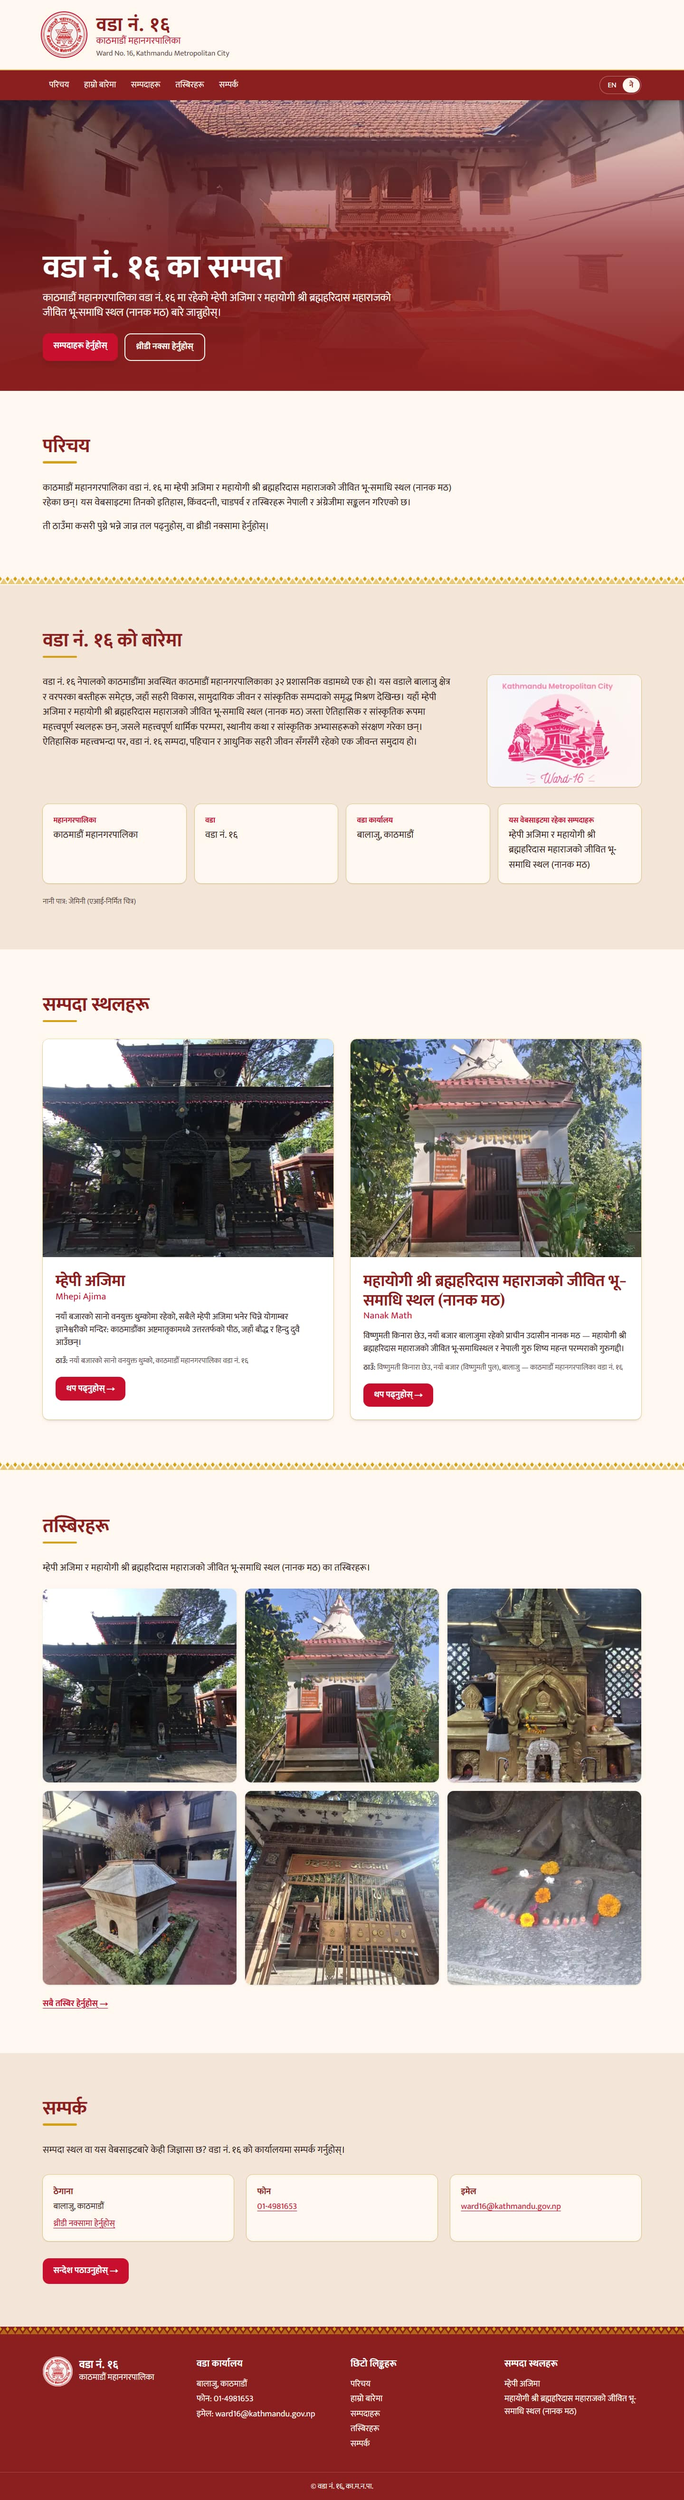
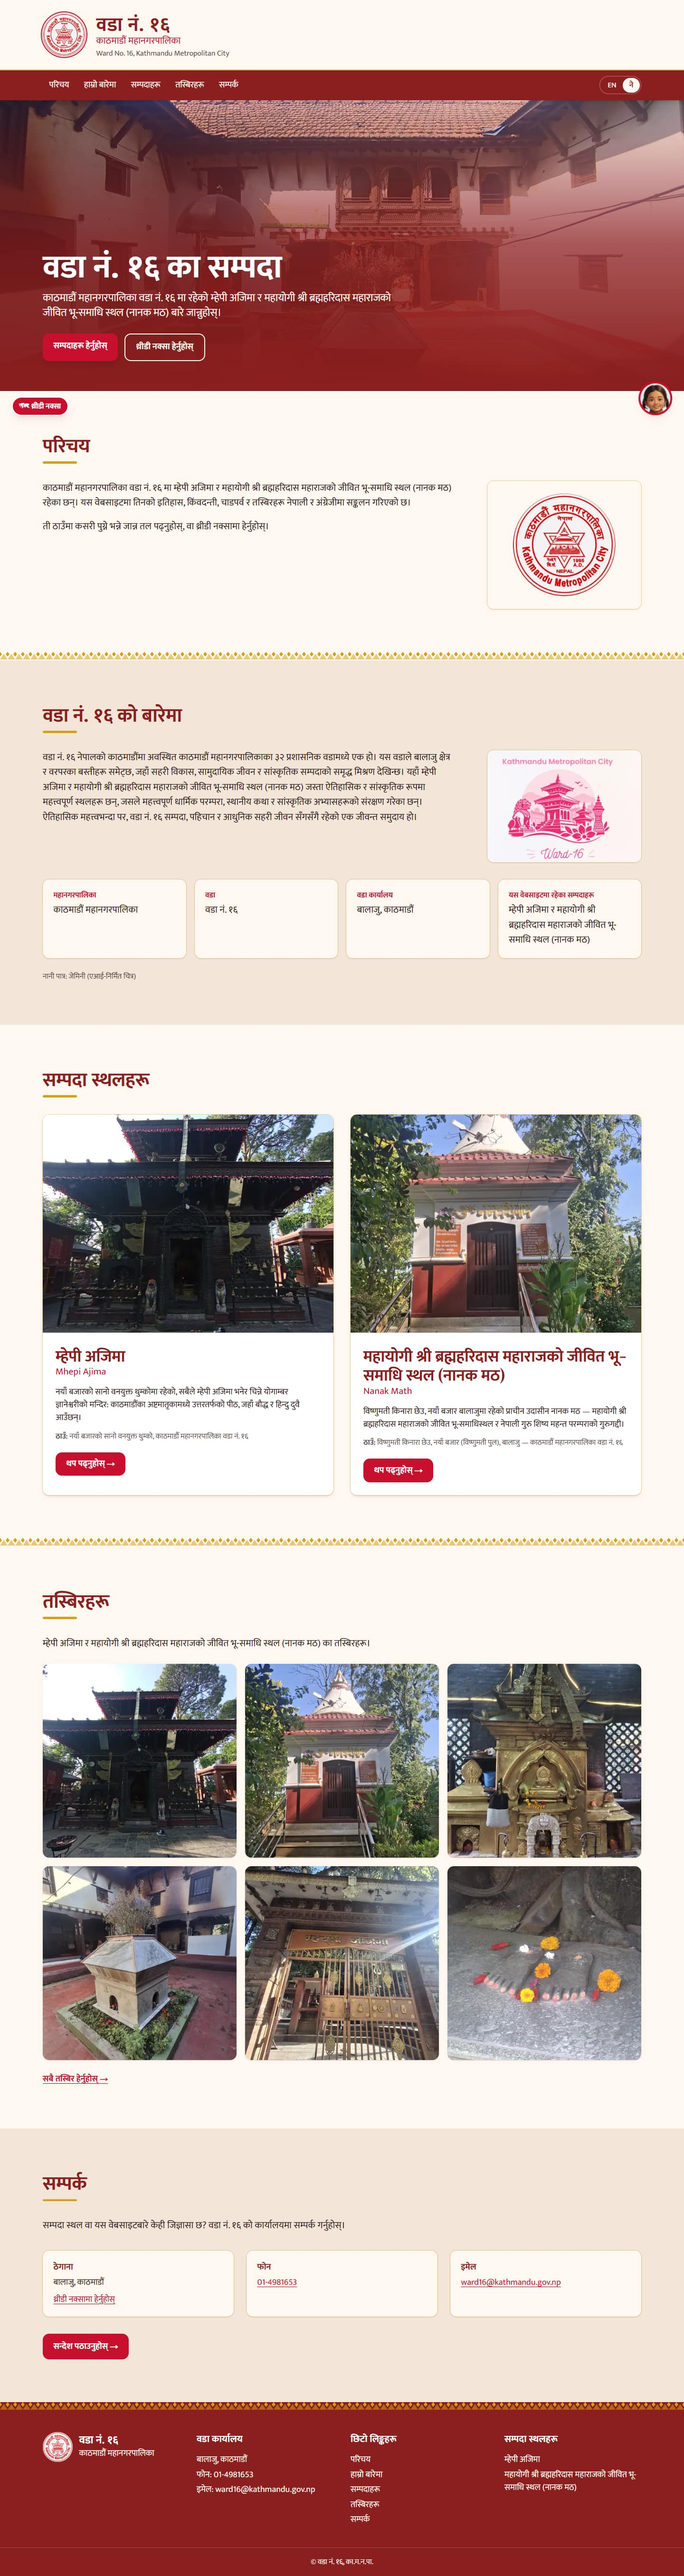
Header home link, Overview emblem, item 11 description, smaller 3D Map button
- Header: the whole brand (logo + "WARD NO. 16 / Kathmandu Metropolitan
  City" + the other-language line) is one link to /en/ or /ne/, named
  "Ward No. 16, home" / "वडा नं. १६, गृहपृष्ठ", with a visible focus
  outline. On the home page it scrolls to the top: smoothly, or
  instantly with reduced motion.
- Home Overview: the KMC emblem (raw-data wardlogo.png, now also built
  at 296 px; ward.json → overviewLogo, EN/NE alt) beside the text from
  768 px, in the same column as the About illustration; above the text
  on phones.
- Nanak heritage list: item 11's description turned on (confirmed).
- 3D Map button:
  - phones: a 40 px circle (icon ~20 px) in a 44 × 44 px tap area,
    as far from the edges as Nani's face;
  - from 768 px: a slim pill (icon ~16 px).
  No overlap at 320–1440.

Checked: typecheck, lint, strict `npm run build` + verify-output.
Browser checks 61/61 + 58/58 new, alignment audit 0 issues.
Screenshots updated.

diff --git a/src/components/Header.tsx b/src/components/Header.tsx
@@ -1,6 +1,6 @@
 import Image from "next/image";
-import Link from "next/link";
 
+import BrandLink from "@/components/BrandLink";
 import Nav from "@/components/Nav";
 import type { Dictionary, NavItem } from "@/lib/i18n";
 import type { Locale } from "@/types/heritage";
@@ -15,40 +15,37 @@ interface HeaderProps {
 
 /**
  * Top of every page, following the sketch: logo circle on the left, "WARD NO. 16 /
- * Kathmandu Metropolitan City" beside it, and the nav row underneath. The title
- * band scrolls away; only the nav bar sticks to the top.
+ * Kathmandu Metropolitan City" beside it, and the nav row underneath. The whole brand
+ * is one link home (BrandLink). The title band scrolls away; only the nav bar sticks.
  */
 export default function Header({ lang, dict, ward, navItems }: HeaderProps) {
   return (
     <>
       <header className="border-b-2 border-gold/60 bg-cream">
-        <div className="mx-auto flex max-w-6xl items-center gap-3 px-4 py-3 md:gap-5 md:py-5">
-          {/* prefetch off: prefetching the home page would preload its hero photo on every page */}
-          <Link
-            href={`/${lang}/`}
-            prefetch={false}
-            aria-label={dict.a11y.homeLink}
-            className="shrink-0 rounded-full ring-2 ring-crimson ring-offset-2 ring-offset-cream"
-          >
+        <div className="mx-auto flex max-w-6xl items-center px-4 py-3 md:py-5">
+          <BrandLink href={`/${lang}/`} label={dict.a11y.homeLink}>
+            {/* alt="": the link's name ("Ward No. 16, home") already says what it is. */}
             <Image
               src={ward.logo.src}
-              alt={ward.logo.alt[lang]}
+              alt=""
               width={128}
               height={128}
               priority
-              className="size-14 rounded-full md:size-20"
+              className="size-14 shrink-0 rounded-full ring-2 ring-crimson ring-offset-2 ring-offset-cream md:size-20"
             />
-          </Link>
 
-          <div className="min-w-0">
-            <p className="font-heading text-2xl leading-tight font-bold tracking-wide text-brick md:text-4xl">
-              {dict.site.headerTitle}
-            </p>
-            <p className="text-base leading-snug font-medium text-crimson md:text-lg">{dict.site.headerSubtitle}</p>
-            <p lang={dict.site.otherLanguage} className="hidden text-sm text-ink/80 sm:block">
-              {dict.site.otherLanguageLine}
-            </p>
-          </div>
+            <span className="block min-w-0">
+              <span className="block font-heading text-2xl leading-tight font-bold tracking-wide text-brick md:text-4xl">
+                {dict.site.headerTitle}
+              </span>
+              <span className="block text-base leading-snug font-medium text-crimson md:text-lg">
+                {dict.site.headerSubtitle}
+              </span>
+              <span lang={dict.site.otherLanguage} className="hidden text-sm text-ink/80 sm:block">
+                {dict.site.otherLanguageLine}
+              </span>
+            </span>
+          </BrandLink>
         </div>
       </header>
 

diff --git a/src/app/[lang]/page.tsx b/src/app/[lang]/page.tsx
@@ -54,6 +54,7 @@ export default async function HomePage({ params }: PageProps<"/[lang]">) {
   const preview = galleryPreview(home.galleryPreview, heritages);
   const credits = getCredits();
   const illustration = ward.illustration ? imageSet(ward.illustration.files) : null;
+  const overviewLogo = ward.overviewLogo ? imageSet(ward.overviewLogo.files) : null;
   // "Nani character by …"; null in production builds until the creator is set in content/credits.json.
   const naniCredit = naniCreditText(credits, dict, lang);
 
@@ -68,9 +69,29 @@ export default async function HomePage({ params }: PageProps<"/[lang]">) {
       />
 
       <HomeSection id="overview" title={dict.home.overviewTitle}>
-        <div className="max-w-3xl space-y-4 text-lg">
-          <p>{fill(byCount(dict.home.overviewIntro, count))}</p>
-          <p>{byCount(dict.home.overviewNext, count)}</p>
+        {/* Same grid as the About section below: text column + 15rem/18rem image column from 768 px.
+            The emblem sits beside the text there, and above it on phones. */}
+        <div className="grid gap-8 md:grid-cols-[minmax(0,1fr)_15rem] md:items-start lg:grid-cols-[minmax(0,48rem)_18rem] lg:justify-between">
+          <div className="space-y-4 text-lg">
+            <p>{fill(byCount(dict.home.overviewIntro, count))}</p>
+            <p>{byCount(dict.home.overviewNext, count)}</p>
+          </div>
+          {overviewLogo && (
+            <div className="order-first mx-auto w-full max-w-72 rounded-xl bg-cream p-6 shadow-sm ring-1 ring-gold/40 md:order-none md:mx-0">
+              {/* eslint-disable-next-line @next/next/no-img-element -- static export: no image server */}
+              <img
+                src={overviewLogo.src}
+                srcSet={overviewLogo.srcSet}
+                sizes="12rem"
+                width={overviewLogo.width}
+                height={overviewLogo.height}
+                alt={ward.overviewLogo?.alt[lang] ?? ""}
+                loading="lazy"
+                decoding="async"
+                className="mx-auto w-48 max-w-full rounded-full"
+              />
+            </div>
+          )}
         </div>
       </HomeSection>
 

diff --git a/src/components/MapButton.tsx b/src/components/MapButton.tsx
@@ -12,8 +12,11 @@ interface MapButtonProps {
 
 /**
  * Floating "🗺 3D Map" button, bottom-left on every page (swapped with Nani, who is bottom-right; hidden on the
- * map page itself). Kept small so it covers little text: a 48 px round icon on phones (the label stays as its
- * accessible name), a compact pill with the label from 768 px.
+ * map page itself). Kept small so it covers little text:
+ * - phones: a 40 px red circle (icon ~20 px) inside a 44 × 44 px tap area. The link is pulled 2 px towards
+ *   the corner so the circle sits as far from the edges as Nani's face on the right. The label stays as its
+ *   accessible name.
+ * - from 768 px: a slim "3D Map" pill (icon ~16 px).
  */
 export default function MapButton({ lang, label }: MapButtonProps) {
   const pathname = usePathname();
@@ -22,11 +25,15 @@ export default function MapButton({ lang, label }: MapButtonProps) {
   return (
     <Link
       href={`/${lang}/map/`}
-      className="fixed bottom-4 left-[max(1rem,env(safe-area-inset-left))] z-30 flex size-12 items-center justify-center rounded-full bg-crimson text-xl font-bold text-white shadow-lg ring-2 ring-white hover:bg-brick md:bottom-6 md:left-[max(1.5rem,env(safe-area-inset-left))] md:size-auto md:gap-1.5 md:px-3.5 md:py-2 md:text-sm"
+      className="group fixed bottom-[calc(1rem-2px)] left-[calc(max(1rem,env(safe-area-inset-left))-2px)] z-30 flex size-[44px] items-center justify-center rounded-full md:bottom-6 md:left-[max(1.5rem,env(safe-area-inset-left))] md:size-auto"
       style={{ marginBottom: "env(safe-area-inset-bottom)" }}
     >
-      <span aria-hidden="true">🗺</span>
-      <span className="sr-only md:not-sr-only">{label}</span>
+      <span className="flex size-[40px] items-center justify-center gap-1 rounded-full bg-crimson font-bold text-white shadow-lg ring-2 ring-white group-hover:bg-brick md:size-auto md:px-3 md:py-1.5 md:text-sm">
+        <span aria-hidden="true" className="text-[20px] leading-none md:text-[16px]">
+          🗺
+        </span>
+        <span className="sr-only md:not-sr-only">{label}</span>
+      </span>
     </Link>
   );
 }

diff --git a/src/components/BrandLink.tsx b/src/components/BrandLink.tsx
@@ -1,0 +1,41 @@
+"use client";
+
+import Link from "next/link";
+import { usePathname } from "next/navigation";
+import type { MouseEvent, ReactNode } from "react";
+
+interface BrandLinkProps {
+  href: string;
+  /** Accessible name, e.g. "Ward No. 16, home". */
+  label: string;
+  children: ReactNode;
+}
+
+/**
+ * The header brand (logo + "WARD NO. 16 / Kathmandu Metropolitan City" + the other-language line) as one
+ * link to the home page in the current language. On the home page itself it scrolls to the top instead:
+ * smoothly, or instantly for visitors who prefer reduced motion.
+ */
+export default function BrandLink({ href, label, children }: BrandLinkProps) {
+  const pathname = usePathname();
+
+  function onClick(event: MouseEvent<HTMLAnchorElement>) {
+    if (pathname !== href) return; // another page: a normal link home
+    event.preventDefault();
+    const reduce = window.matchMedia("(prefers-reduced-motion: reduce)").matches;
+    window.scrollTo({ top: 0, behavior: reduce ? "auto" : "smooth" });
+  }
+
+  return (
+    // prefetch off: prefetching the home page would preload its hero photo on every page
+    <Link
+      href={href}
+      prefetch={false}
+      aria-label={label}
+      onClick={onClick}
+      className="flex min-w-0 items-center gap-3 rounded-lg focus-visible:outline-offset-4 md:gap-5"
+    >
+      {children}
+    </Link>
+  );
+}

diff --git a/src/types/ward.ts b/src/types/ward.ts
@@ -20,6 +20,13 @@ export const wardSchema = z.object({
     src: z.string().startsWith("/images/"),
     alt: localized,
   }),
+  /** Emblem beside the Overview text on the home page (raw-data wardlogo.png), smallest file first. */
+  overviewLogo: z
+    .object({
+      files: z.array(z.string().startsWith("/images/")).min(1),
+      alt: localized,
+    })
+    .optional(),
   /** Ward illustration beside the About text on the home page (raw-data wardlogo1.png), smallest file first. */
   illustration: z
     .object({

diff --git a/MISSING_INFO.md b/MISSING_INFO.md
@@ -69,7 +69,7 @@ Most of the missing Mhepi Ajima content, and all ward information, is probably i
 - [ ] **"उदासीन" / "Udasin"**: dropped from the tradition field but still in the summary, the signboard name and How to Visit. Confirm which is right.
 - [ ] **Typos in the Nepali to check (not changed):** "बुद्धिदास महाराजको तिथ" (तिथि); "वि.सं. २०८० असाेज" typed as ा+े (असोज); "वासन्तीक नवरात्र" (वासन्तिक); "विष्णु पञ्चायन" in 4 places (पञ्चायतन elsewhere); "संवर्धन  एवं" double space; "नेपाली चोकन मन्दिर" (चोक?).
 - [ ] **Photos beside "यहाँ भएका सम्पदाहरू" / "The Heritage Here"** (`content/section-photos.json`): matched by Claude using the guru's new photo descriptions. Confirm, especially item 11 (ancient Nepali chok temple and mahant gaddi → `main-courtyard`, the courtyard of the two-storey buildings) and item 2 (`gilded-shrine`, described as the Vishnu Panchayatan temple). No photo yet for items 1, 10 and 12–16.
-  - [ ] **Item 11 has no description under its title**: its photo's gallery description ("Courtyard of the math enclosed by traditional two-storey buildings with tiled roofs" / "…मठको चोक") does not clearly describe "the ancient Nepali chok temple and the mahant gaddi". Items 2–9 show their photo's description. Set `"description": true` for item 11 in `content/section-photos.json` once confirmed, or give a better-matching photo.
+  - [x] **Item 11 description**: turned on (17 Nov 2026) on confirmation that the courtyard photo matches "the ancient Nepali chok temple and the mahant gaddi". All nine items now show their photo's description.
 - [ ] **Alternative name "Siddheshwar Mahadev" — needs a source.** Given by the ward team (13 Nov 2026) but not confirmed. It was removed from the chatbot topic label in the Phase 9 review and is **not shown anywhere** on the site.
   - A search of raw-data found **no occurrence** of Siddheshwar / सिद्धेश्वर (or its spelling variants) in the docx, the transcribed signboards and inscriptions, or any file name. The three web sources don't mention it either.
   - [ ] Give a source for the name (a document, signboard or interview) before it is used anywhere on the site.
@@ -124,7 +124,7 @@ Most of the missing Mhepi Ajima content, and all ward information, is probably i
 These files contain Nepali written by Claude, not taken from a source. A native speaker should review them.
 
 - `content/heritage/mhepi-ajima.ne.md`: rewritten on 13 Nov 2026 by Claude from the priest's Nepali transcript (condensed, mostly his own words). Everything apart from the quoted inscriptions and the bhajan needs review. The new Mhepi chatbot answers in `content/faq.json` (`mhepi-*`, including the new `mhepi-name` and `mhepi-machhindranath`) too.
-- `content/ward.json` → `illustration.alt.ne`: alt text of the ward illustration (`wardlogo1.png`, added 17 Nov 2026), written by Claude.
+- `content/ward.json` → `illustration.alt.ne` (ward illustration, `wardlogo1.png`) and `overviewLogo.alt.ne` (the KMC emblem beside Overview): alt text written by Claude, 17 Nov 2026.
 - `content/heritage/nanak-math.ne.md`: mostly the docx's own sentences, shortened. The summary, How to Visit, list intros and table labels are by Claude.
   - **Revised on 17 Nov 2026** by Luniva Malakar from the guru's feedback (native speaker). The English page (`nanak-math.en.md`) and the English chatbot answers now mirror her Nepali; Claude's English translation of the new text needs a review.
 - The `alt` text in all `gallery` entries of the `.ne.md` files

diff --git a/docs/screenshots/heritage-photos/README.md b/docs/screenshots/heritage-photos/README.md
@@ -4,24 +4,25 @@ Captured on 17 Nov 2026 in Microsoft Edge from the strict `npm run build`, branc
 
 | File | What it shows |
 |---|---|
-| `home-en-375-full.jpg`, `home-en-768-full.jpg`, `home-en-1440-full.jpg` (and `home-ne-…`) | The whole home page. The ward illustration (raw-data `wardlogo1.png`) sits beside the About Ward No. 16 text from 768 px and under it on phones. Each image is stitched from screen-height captures, with the sticky header and floating buttons hidden so they don't repeat. |
+| `home-en-375-full.jpg`, `home-en-768-full.jpg`, `home-en-1440-full.jpg` (and `home-ne-…`) | The whole home page. From 768 px, the KMC emblem (`wardlogo.png`) sits beside the Overview text and the ward illustration (`wardlogo1.png`) beside the About Ward No. 16 text, in the same column; on phones the emblem is above its text and the illustration below. The small 3D Map button (bottom-left) and Nani (bottom-right) show in the first screen. Each image is stitched from screen-height captures, with the sticky header and the floating buttons shown once only. |
 | `heritage-here-en-375.jpg`, `heritage-here-ne-375.jpg` | Nanak Math, "The Heritage Here" on phones: the item's text first, the photo underneath |
 | `heritage-here-en-768.jpg`, `heritage-here-ne-768.jpg`, `heritage-here-en-1440.jpg`, `heritage-here-ne-1440.jpg` | From 768 px: text on the left, photo on the right |
 | `heritage-here-en-1440-list.jpg`, `heritage-here-ne-1440-list.jpg` | The whole list |
 
 **The heritage list** (`content/section-photos.json`):
-- Nine items have a photo. Items 2–9 show the photo's gallery description under the title, word for word in the page language.
-- Item 11 shows its title only, because its photo's description doesn't clearly match the item (see MISSING_INFO.md).
+- Nine items have a photo, and all nine show the photo's gallery description under the title, word for word in the page language. Item 11's was turned on after confirmation.
 - The Tulsi Math keeps its four sub-shrines under its description.
 - Photos are equal in width and level with the titles. Every item's number lines up with the numbers of items without a photo.
 
-**Browser checks:** 67/67 pass, with no page errors, at 375, 768 and 1440 px in EN and NE. They cover:
+**Browser checks:** 61/61 heritage-list and home checks plus 58 header, emblem and button checks pass, with no page errors, at 375, 768 and 1440 px (button spacing also at 320 and 1024) in EN and NE. They cover:
 - the section heading and the nine photos;
 - the layout: text and photo positions, lazy loading, alt text, rounded corners and the gallery link;
-- the descriptions, and title only for item 11;
+- the descriptions on all nine items;
 - the Tulsi Math's sub-shrines;
 - photo widths and tops;
-- the size and name of the 3D Map button;
+- the size and name of the 3D Map button: a 44 px tap area with a 40 px circle on phones, a slim pill from 768 px, as far from the edges as Nani, no overlap;
+- the header brand: one link home on every page, named, with a focus outline; smooth scroll to the top on the home page, instant with reduced motion;
+- the Overview emblem beside or above the text;
 - the ward illustration;
 - no Sources section, and the new English name.
 

diff --git a/CLAUDE.md b/CLAUDE.md
@@ -17,7 +17,9 @@
 - Cite sources in content with `<!-- source: key1, key2 | reviewer detail -->`; keys and their plain-language names live in content/sources.json (an unknown key fails the build). Since 17 Nov 2026 the site shows no Sources section (heritage pages and map panel); the comments stay for reviewers and the build check.
 - Placeholder dots ("………", "....", a lone "…" as content) fail check-content and verify-output (scripts/dot-placeholders.ts), like [PLACEHOLDER; never use them as filler.
 - Home page: the ward illustration (content/ward.json → `illustration`, built from raw-data wardlogo1.png by optimize-images) sits beside the About Ward No. 16 text from 768 px, below it on phones.
-- The floating 3D Map button stays small: a round 3rem icon on phones (label as its accessible name), a compact pill from 768 px.
+- The floating 3D Map button stays small: on phones a 40 px circle (icon ~20 px) in a 44 × 44 px tap area, as far from the edges as Nani's face; from 768 px a slim pill (icon ~16 px). The label is its accessible name.
+- Header: the whole brand (logo + title lines) is one link home (BrandLink.tsx), named a11y.homeLink ("Ward No. 16, home"); on the home page it scrolls to the top (instant under reduced motion).
+- Home: the KMC emblem (ward.json → `overviewLogo`, from wardlogo.png) sits beside the Overview text in the same 15rem/18rem column as the About illustration (above the text on phones).
 - Photos beside list items on a heritage page (e.g. Nanak Math's "यहाँ भएका सम्पदाहरू" / "The Heritage Here") are set in content/section-photos.json (site → section id → item number → gallery photo, or `{ "photo", "description": false }`) and placed by src/lib/rehype-section-photos.ts: text left, photo right from 768 px, text then photo on phones; the photo's gallery description is shown under the item's title unless switched off; "removed" photos are skipped; an unknown photo or item number fails the build.
 - Detail pages render optional parts only when there is data: map button needs coordinates, "Other heritage" needs another visible site, quick facts skip empty fields, the photo credit needs `photos.team` in content/credits.json.
 - Photos showing identifiable people are listed in content/photo-consent.json (pending/approved/removed) and docs/photos-with-people.md; "removed" hides a photo everywhere. Check every newly added photo for faces.
